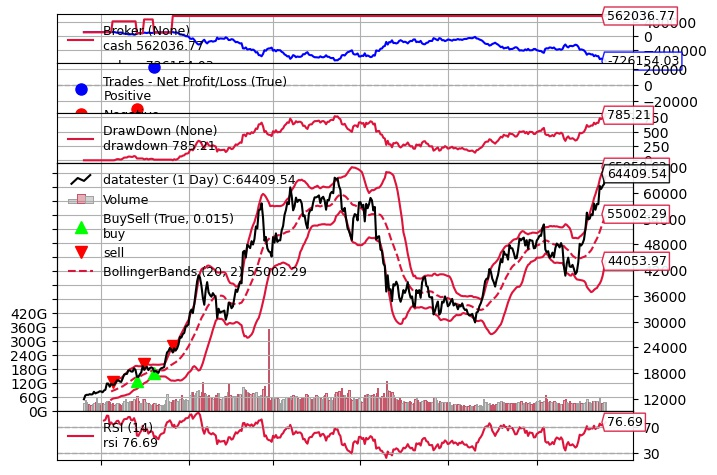
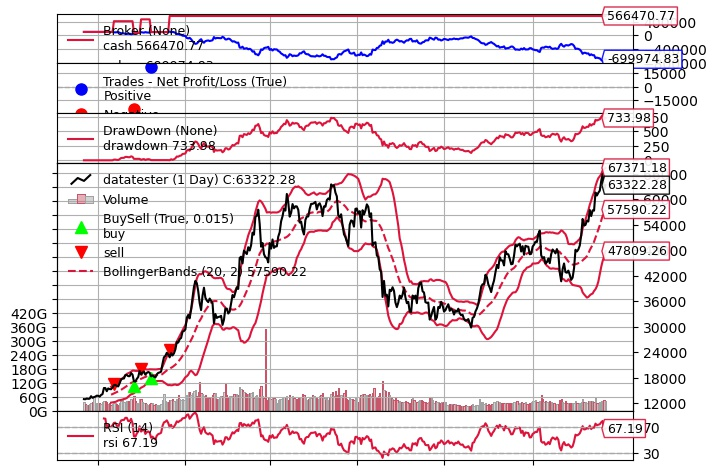
Bot funcionando, falta poner condicion de notific

Changed region(s): [[0.0921, 0.3242, 0.9819, 0.9726], [0.0921, 0.0, 0.9819, 0.3537], [0.0921, 0.2653, 0.1534, 0.2947]]

diff --git a/strategies.py b/strategies.py
@@ -21,7 +21,7 @@ class BOLLRSIStrat(bt.Strategy):
         self.rsi = bt.ind.RSI(self.data, period= 14)
         #self.sx = bt.indicators.CrossDown(self.data.close, self.boll.lines.top)
         #self.lx = bt.indicators.CrossUp(self.data.close, self.boll.lines.bot)
-        self.str_name = "BOLLRSI"
+        self.strategy_name = 'BOLLRSI'
 
     def next(self):
 
@@ -33,7 +33,7 @@ class BOLLRSIStrat(bt.Strategy):
                 self.broker.cancel(order)
 
         if not self.position:
-
+            
             if (self.data.close > self.boll.lines.top) or (self.rsi>70):
 
                 self.sell(exectype=bt.Order.Stop, price=self.boll.lines.top[0], size=self.p.size)
@@ -165,7 +165,7 @@ class smasCross(bt.SignalStrategy):
         self.str_name = "SMAsCross"
         crossover = bt.ind.CrossOver(ema1, ema2)
         self.signal_add(bt.SIGNAL_LONG, crossover)
-class emaPriceCross(bt.SignalStrategy):
+class emaPriceCross_100(bt.SignalStrategy):
     """Estrategia con ema y precio
 
     Args:
@@ -181,6 +181,35 @@ class emaPriceCross(bt.SignalStrategy):
         self.signal_add(bt.SIGNAL_LONG, crossover)
 
 
+class emaPriceCross_200(bt.SignalStrategy):
+    """Estrategia con ema y precio
+
+    Args:
+        bt ([type]): [description]
+    """
+    def __init__(self):
+        
+        self.ema1 =  bt.ind.EMA(period= 200)
+        self.price = self.data
+        self.rsi = bt.ind.RSI(self.data, period= 14)
+        self.str_name = "EMACross"
+        crossover = bt.ind.CrossOver(self.price, self.ema1)
+        self.signal_add(bt.SIGNAL_LONG, crossover)
+
+class emaPriceCross_150(bt.SignalStrategy):
+    """Estrategia con ema y precio
+
+    Args:
+        bt ([type]): [description]
+    """
+    def __init__(self):
+        
+        self.ema1 =  bt.ind.EMA(period= 150)
+        self.price = self.data
+        self.rsi = bt.ind.RSI(self.data, period= 14)
+        self.str_name = "EMACross"
+        crossover = bt.ind.CrossOver(self.price, self.ema1)
+        self.signal_add(bt.SIGNAL_LONG, crossover)
 
 
 class RSIStrategy(bt.Strategy):

diff --git a/bot.py b/bot.py
@@ -1,9 +1,8 @@
-from backtrader import strategy
-import discord
+
 from sqlalchemy import create_engine
 import os
 from funciones.run_saveplot_strategy import run_saveplot_strategy
-
+import requests
 import discord
 import strategies
 
@@ -11,4 +10,28 @@ engine = create_engine(f'postgresql://{os.environ.get("db_user")}:{os.environ.ge
 engine.execute("DROP TABLE IF EXISTS crypto_strategy_results;")
 engine.execute("""CREATE TABLE crypto_strategy_results(market varchar, strategy_name varchar, anual_return numeric); """)
 
-run_saveplot_strategy(strategy= strategies.BOLLRSIStrat, ticker="BTC-USD", strategy_name="BOLLRSI", date='2021-10-20', engine=engine, file_name='images/BOLLRSI_BTCUSD.jpg')
+
+date_today = '2021-10-22'
+ticker = 'BTC-USD'
+#BOLLRSI
+run_saveplot_strategy(strategy= strategies.BOLLRSIStrat, ticker=ticker, strategy_name="BOLLRSI", date=date_today, engine=engine, file_name=f'images/BOLLRSI_BTCUSD.jpg')
+
+#emacros100
+run_saveplot_strategy(strategy= strategies.emaPriceCross_100, ticker=ticker, strategy_name="EMACross100", date=date_today, engine=engine, file_name=f'images/EMACross100_BTCUSD.jpg')
+#emacros150
+run_saveplot_strategy(strategy= strategies.emaPriceCross_150, ticker=ticker, strategy_name="EMACross150", date=date_today, engine=engine, file_name=f'images/EMACross150_BTCUSD.jpg')
+#emacross200
+
+run_saveplot_strategy(strategy= strategies.emaPriceCross_200, ticker=ticker, strategy_name="EMACross200", date=date_today, engine=engine, file_name=f'images/EMACross200_BTCUSD.jpg')
+
+
+
+#Sistema de notificaciones
+
+
+
+mensaje = {'username': 'Adam', 'content': "Hola"}
+
+requests.post(os.environ.get("adam_ema100"), json= mensaje)
+
+

diff --git a/funciones/run_saveplot_strategy.py b/funciones/run_saveplot_strategy.py
@@ -3,7 +3,6 @@ import strategies
 from funciones.run_backtest import runstrat
 from funciones.save_backtrader_plot import saveplots
 
-strat = [strategies.RSIStrategy,strategies.BOLLStrat, strategies.BOLLRSIStrat, strategies.emaPriceCross, strategies.smasCross, strategies.smaCross]
 stname = ["RSI","BOLL", "BOLLRSI","EMACROSS","SMAsCROSS", "SMACROSS"]
 markets = ["BTC-USD", "ADA-USD","ETH-USD", "LTC-USD", "BNB-USD"]
 
